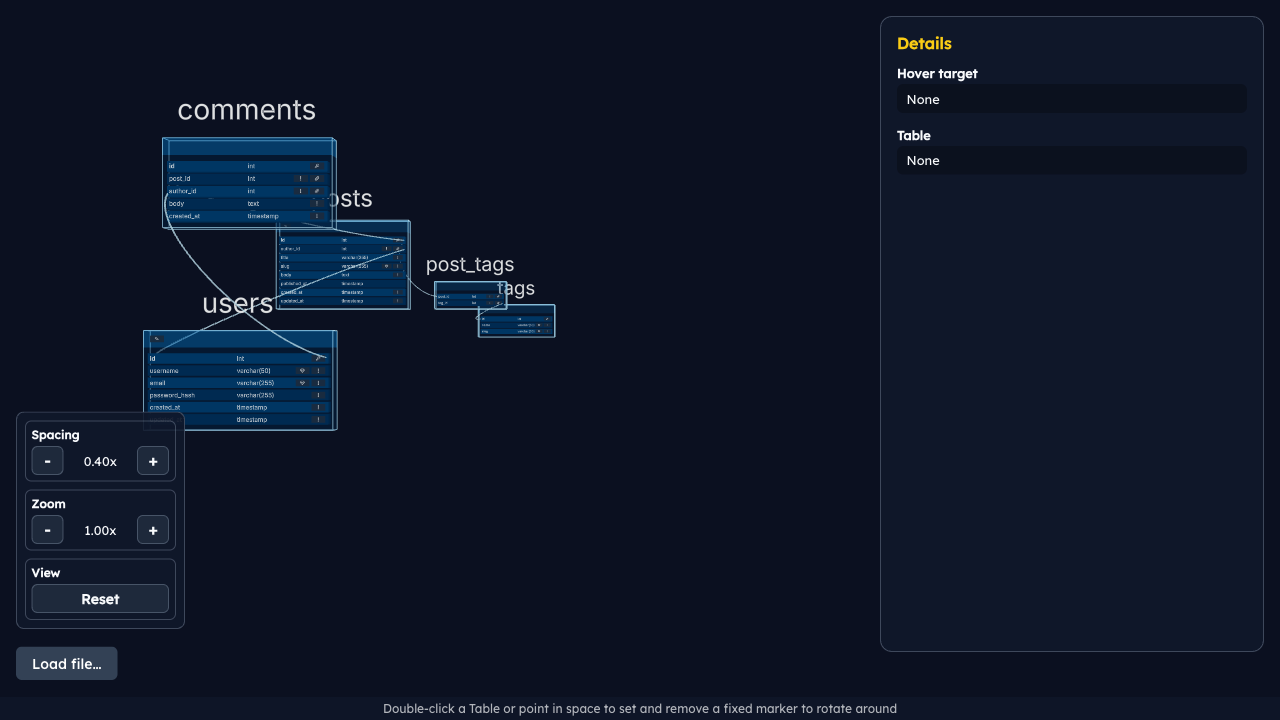
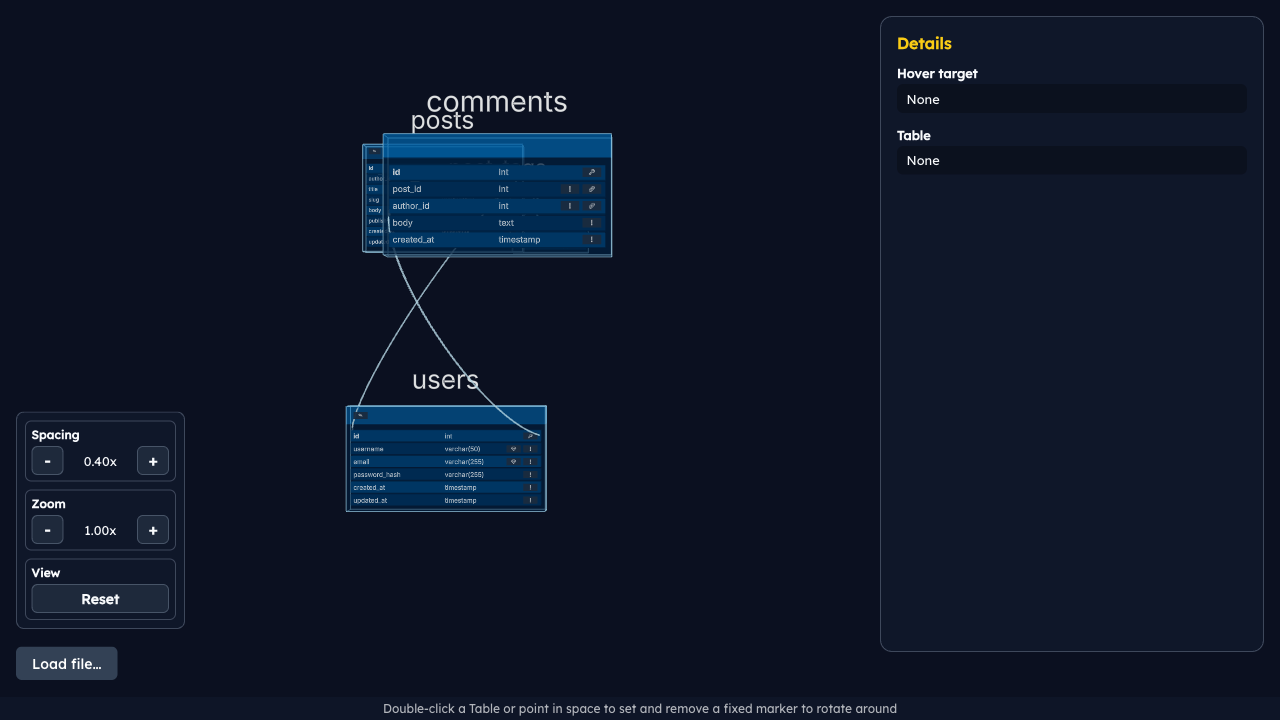
docs: update PROJECT_OVERVIEW and ideas list for feature 13 color styles
Documents the color resolution pipeline across parser/layout/renderer
layers. Marks ideas 3, 5, and 6 as done. Adds color-styles visual
test evidence screenshot.

Changed region(s): [[0.0938, 0.1222, 0.5, 0.7333]]

diff --git a/PROJECT_OVERVIEW.md b/PROJECT_OVERVIEW.md
@@ -52,14 +52,14 @@ DBML text
 
 ### Layers
 
-| Layer             | Technology                                         | Responsibility                                                                                                                                                                                                                                                                                                                                                                                                                                                                      |
-| ----------------- | -------------------------------------------------- | ----------------------------------------------------------------------------------------------------------------------------------------------------------------------------------------------------------------------------------------------------------------------------------------------------------------------------------------------------------------------------------------------------------------------------------------------------------------------------------- |
-| **Parser**        | `@dbml/core`                                       | Tokenise and validate DBML; produce a typed JS object graph (`Database`, `Table`, `Field`, `Ref`). Extracts optional `note` strings on both `ParsedTable` and `ParsedColumn`.                                                                                                                                                                                                                                                                                                       |
-| **Graph model**   | Plain TypeScript                                   | Transform the parser output into a framework-agnostic node/edge graph suitable for layout. `ParsedColumn.note` and `ParsedTable.note` carry annotation text.                                                                                                                                                                                                                                                                                                                        |
-| **Layout engine** | `d3-force-3d`                                      | Two-phase hierarchical layout. Phase 1 (`src/layout/groupLayout.ts`): builds `TableGroupDescriptor` objects from the parsed schema, places named groups in non-overlapping world-space regions (`placeGroups`), and seeds each table near its group center (`computeGroupSeedPositions`). Phase 2: runs a 3D force-directed simulation with a weak group-cohesion force that keeps grouped tables clustered together during the interactive live simulation (`useForceSimulation`). |
-| **Renderer**      | React Three Fiber (`@react-three/fiber`), Three.js | Declarative React component tree that maps graph nodes to `<mesh>` table cards and graph edges to curved routed link lines with endpoint fan-out. `TableGroupBoundary` renders a translucent box + wireframe edges + floating label around each DBML `TableGroup`. Includes `NotePanel` (billboarding popup for field/table notes) and `NoteConnector` (arc line from anchor to panel).                                                                                             |
-| **Controls**      | `@react-three/drei`                                | Orbit controls, camera damping, label sprites, and click-to-focus interaction.                                                                                                                                                                                                                                                                                                                                                                                                      |
-| **UI shell**      | React + Tailwind CSS                               | File upload, DBML text editor panel, and HUD controls outside the canvas.                                                                                                                                                                                                                                                                                                                                                                                                           |
+| Layer             | Technology                                         | Responsibility                                                                                                                                                                                                                                                                                                                                                                                                                                                                                                                                                                                                                                 |
+| ----------------- | -------------------------------------------------- | ---------------------------------------------------------------------------------------------------------------------------------------------------------------------------------------------------------------------------------------------------------------------------------------------------------------------------------------------------------------------------------------------------------------------------------------------------------------------------------------------------------------------------------------------------------------------------------------------------------------------------------------------- |
+| **Parser**        | `@dbml/core`                                       | Tokenise and validate DBML; produce a typed JS object graph (`Database`, `Table`, `Field`, `Ref`). Extracts optional `note` strings on both `ParsedTable` and `ParsedColumn`. Also extracts DBML color style attributes: `Table [headercolor]`, `Ref [color]`, and `TableGroup [color]`; applies precedence rules (table-local > last injected partial > undefined). Produces `ParsedSchema.tableGroups` with group color metadata.                                                                                                                                                                                                            |
+| **Graph model**   | Plain TypeScript                                   | Transform the parser output into a framework-agnostic node/edge graph suitable for layout. `ParsedColumn.note` and `ParsedTable.note` carry annotation text. `ParsedTable.headerColor`, `ParsedRef.color`, and `ParsedTableGroup.color` carry resolved DBML color tokens.                                                                                                                                                                                                                                                                                                                                                                      |
+| **Layout engine** | `d3-force-3d`                                      | Two-phase hierarchical layout. Phase 1 (`src/layout/groupLayout.ts`): builds `TableGroupDescriptor` objects from the parsed schema, places named groups in non-overlapping world-space regions (`placeGroups`), and seeds each table near its group center (`computeGroupSeedPositions`). Phase 2: runs a 3D force-directed simulation with a weak group-cohesion force that keeps grouped tables clustered together during the interactive live simulation (`useForceSimulation`). Group boundary bounding boxes carry the resolved group color from `ParsedSchema.tableGroups`.                                                              |
+| **Renderer**      | React Three Fiber (`@react-three/fiber`), Three.js | Declarative React component tree that maps graph nodes to `<mesh>` table cards and graph edges to curved routed link lines with endpoint fan-out. `TableGroupBoundary` renders a translucent box + wireframe edges + floating label around each DBML `TableGroup`, tinted by the group's resolved color. `TableCard` applies DBML `headercolor` to the card header mesh. `RelationshipLink3D` applies DBML `Ref [color]` to the tube material. Color resolution and fallback logic lives in `src/renderer/colorUtils.ts`. Includes `NotePanel` (billboarding popup for field/table notes) and `NoteConnector` (arc line from anchor to panel). |
+| **Controls**      | `@react-three/drei`                                | Orbit controls, camera damping, label sprites, and click-to-focus interaction.                                                                                                                                                                                                                                                                                                                                                                                                                                                                                                                                                                 |
+| **UI shell**      | React + Tailwind CSS                               | File upload, DBML text editor panel, and HUD controls outside the canvas.                                                                                                                                                                                                                                                                                                                                                                                                                                                                                                                                                                      |
 
 ### Directory Layout (target)
 
@@ -110,4 +110,4 @@ Utility-first CSS eliminates class-naming overhead for a small UI shell. Works w
 1. **Layout persistence** — should the user be able to pin/save node positions? If so, where is that state stored (URL hash? localStorage?)?
 2. **Performance ceiling** — at what schema size does the force simulation become too slow for the browser main thread? Will we need a Web Worker?
 3. **Edge rendering** — straight `<Line>` segments vs. curved splines. Splines look better but add geometry complexity.
-4. **Colour scheme** — one colour per schema, or configurable themes?
+4. **Colour scheme** — resolved: DBML native color attributes (`Table [headercolor]`, `Ref [color]`, `TableGroup [color]`) are now respected. Tables, refs, and group boundaries each render with their DBML-defined color, falling back to the default dark-blue palette when none is specified.

diff --git a/ideas.MD b/ideas.MD
@@ -1,19 +1,19 @@
 1. [X] Clicking on a table title should move the table to the center of the view and zoom in on it. This allows users to quickly focus on a specific table and its relationships without having to manually navigate through the diagram.
 2. Icons for NN, FK, PK, 
-3. "Referenced by" as well as "Referenced tables"
+3. [X] "Referenced by" as well as "Referenced tables"
 4. Incoming references on left, Outgoing on right
-5. Table groups (have all tables in a transparent colour block/shape) -- respect `color` setting
-6. Support colours etc. from Table settings.
-7. Navigate/Rearrange toggle
-8. Bug where text disappears after Rearrange
-9. Double click on table flies to in front of it
-10. Clean up presentation on right 
+5. [X] Table groups (have all tables in a transparent colour block/shape) -- respect `color` setting
+6. [X] Support colours etc. from Table settings.
+7. [REMOVED] Navigate/Rearrange toggle
+8. [REMOVED] Bug where text disappears after Rearrange
+9. [X] Double click on table flies to in front of it
+10. [X] Clean up presentation on right 
 11. Render project names and descriptions from DBML `Project` blocks. Render project notes
-12. Explicitly check that `TablePartials` are supported in the load
+12. [X] Explicitly check that `TablePartials` are supported in the load
 13. Check for `default`  values and render it in the table card (↩)
 14. Render `checks` on the table card in a section (hovers on the name of the check to see the details revealed in the nav panel tooltip, with fields highlighted)
 15. Render `indexes` on the table card ina section (hovers on the name of the index or other icon to see the details revealed in the nav panel tooltip, with fields highlighted)
-16. Hovering on a connection should show the referenced fields being highlighted in the tables 
+16. [X] Hovering on a connection should show the referenced fields being highlighted in the tables 
 17. Render connection type (one-to-one, one-to-many, many-to-one, many-to-many) on the connection line somehow
 18. Where a ref has a name (e.g. `Ref: users.id > posts.user_id [name: "UserPosts"]`), render that name on the connection line
 19. Support for rendering `Enum` types in the table cards, showing the possible values with a special enum indicator
